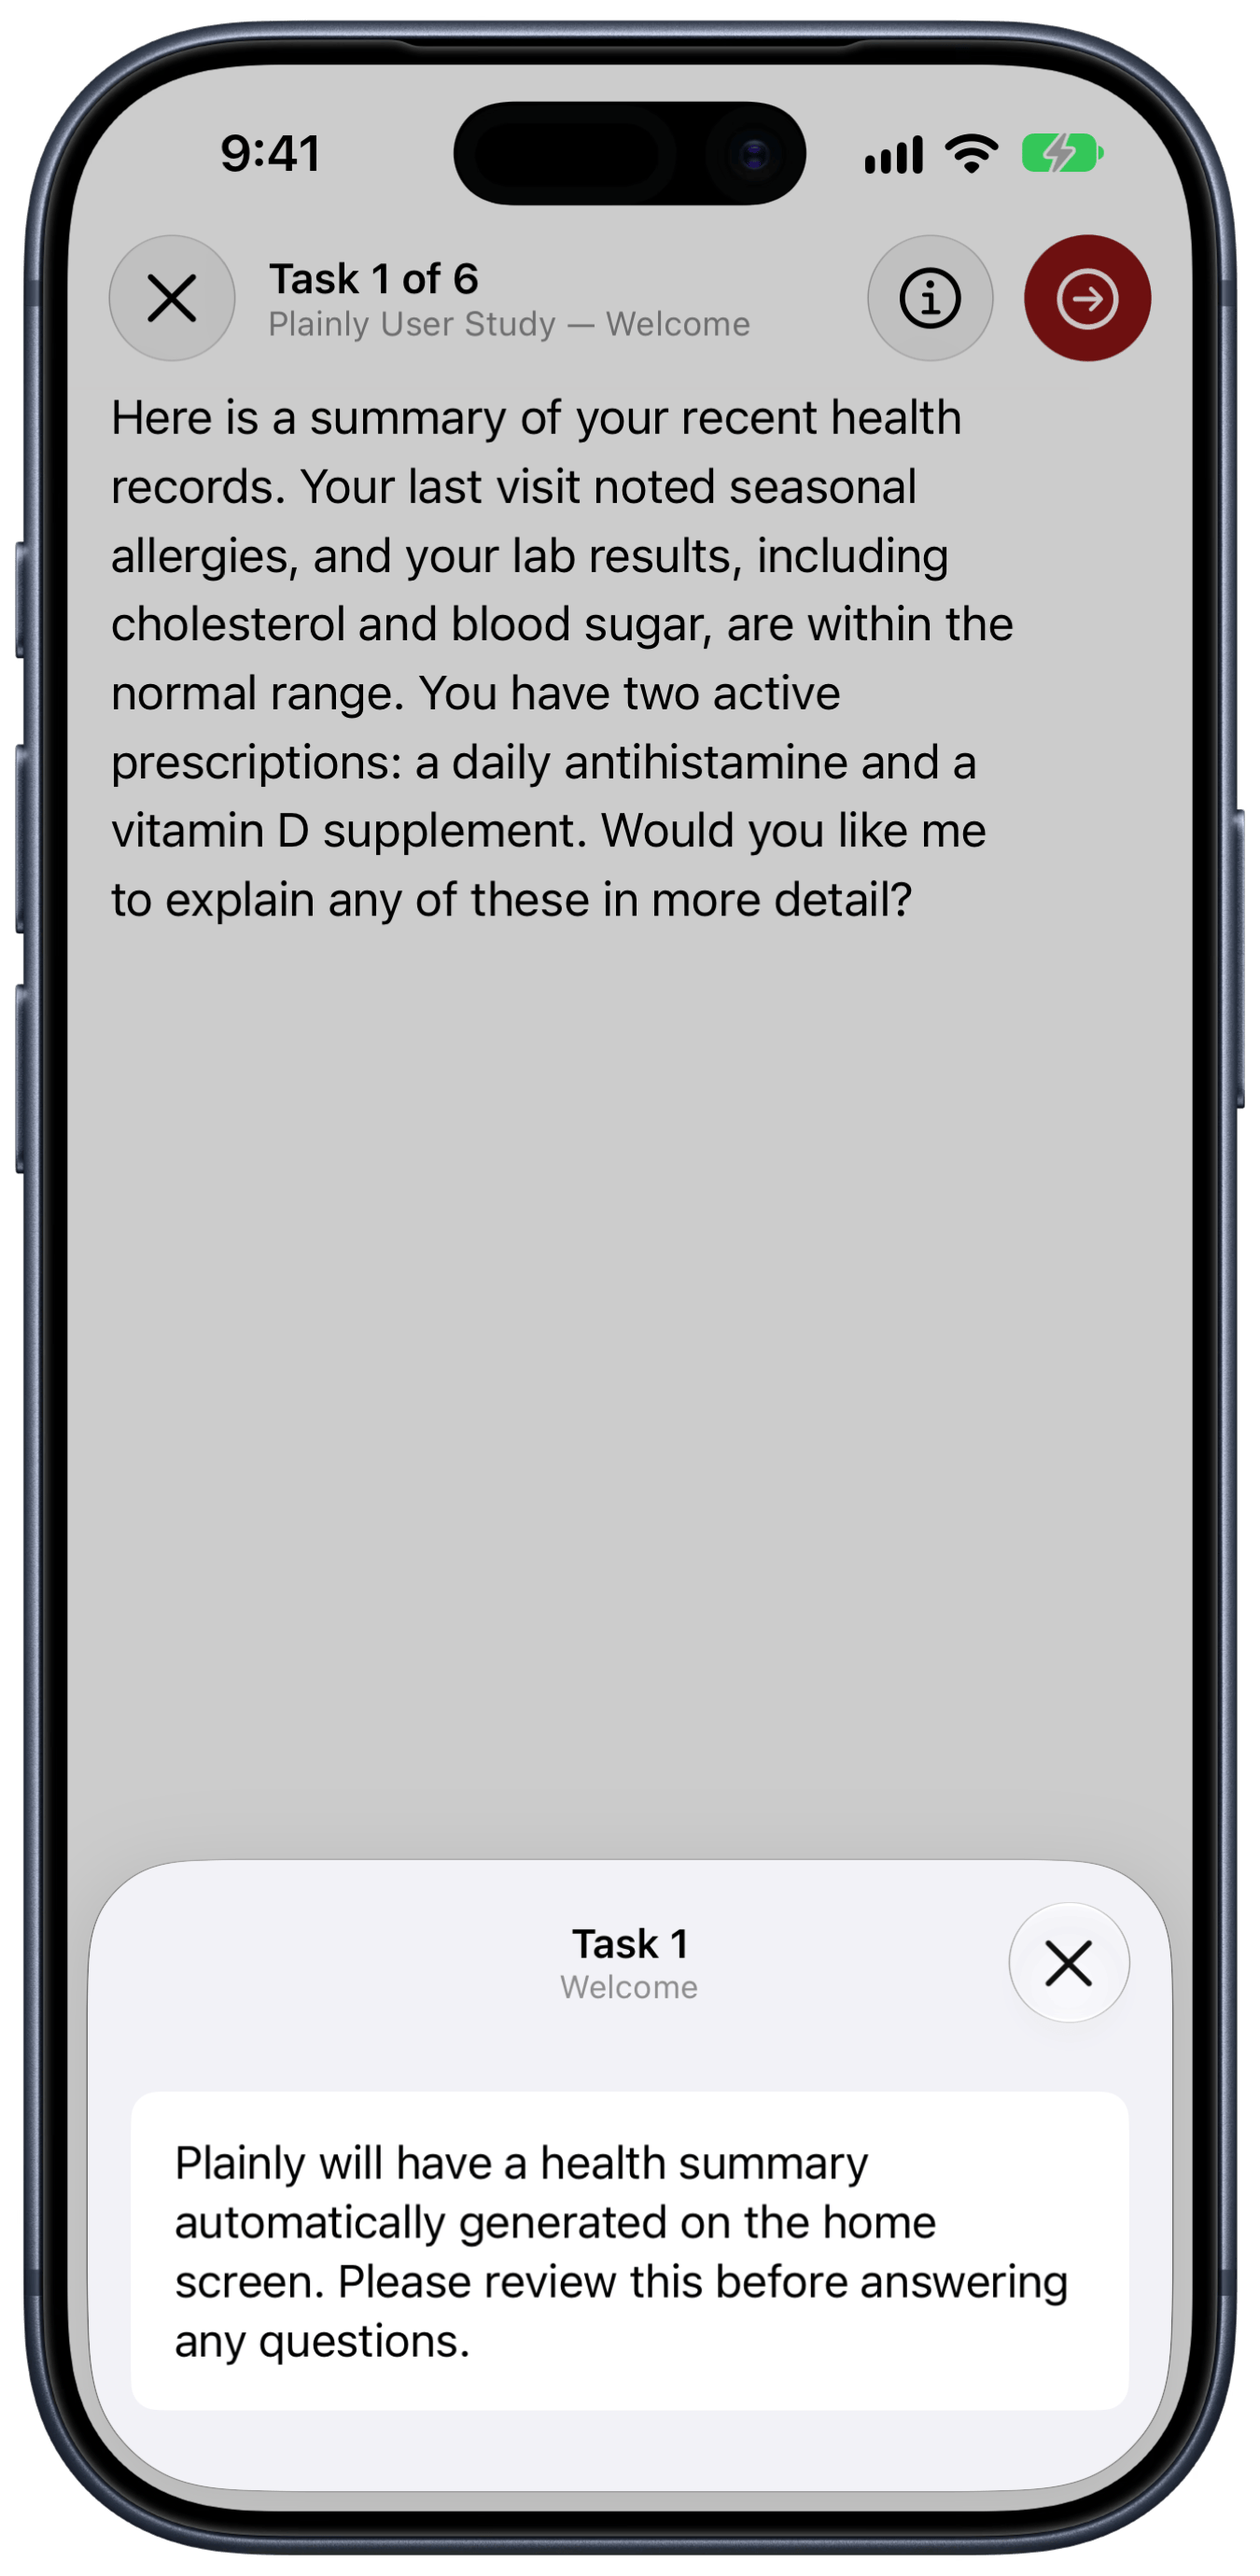
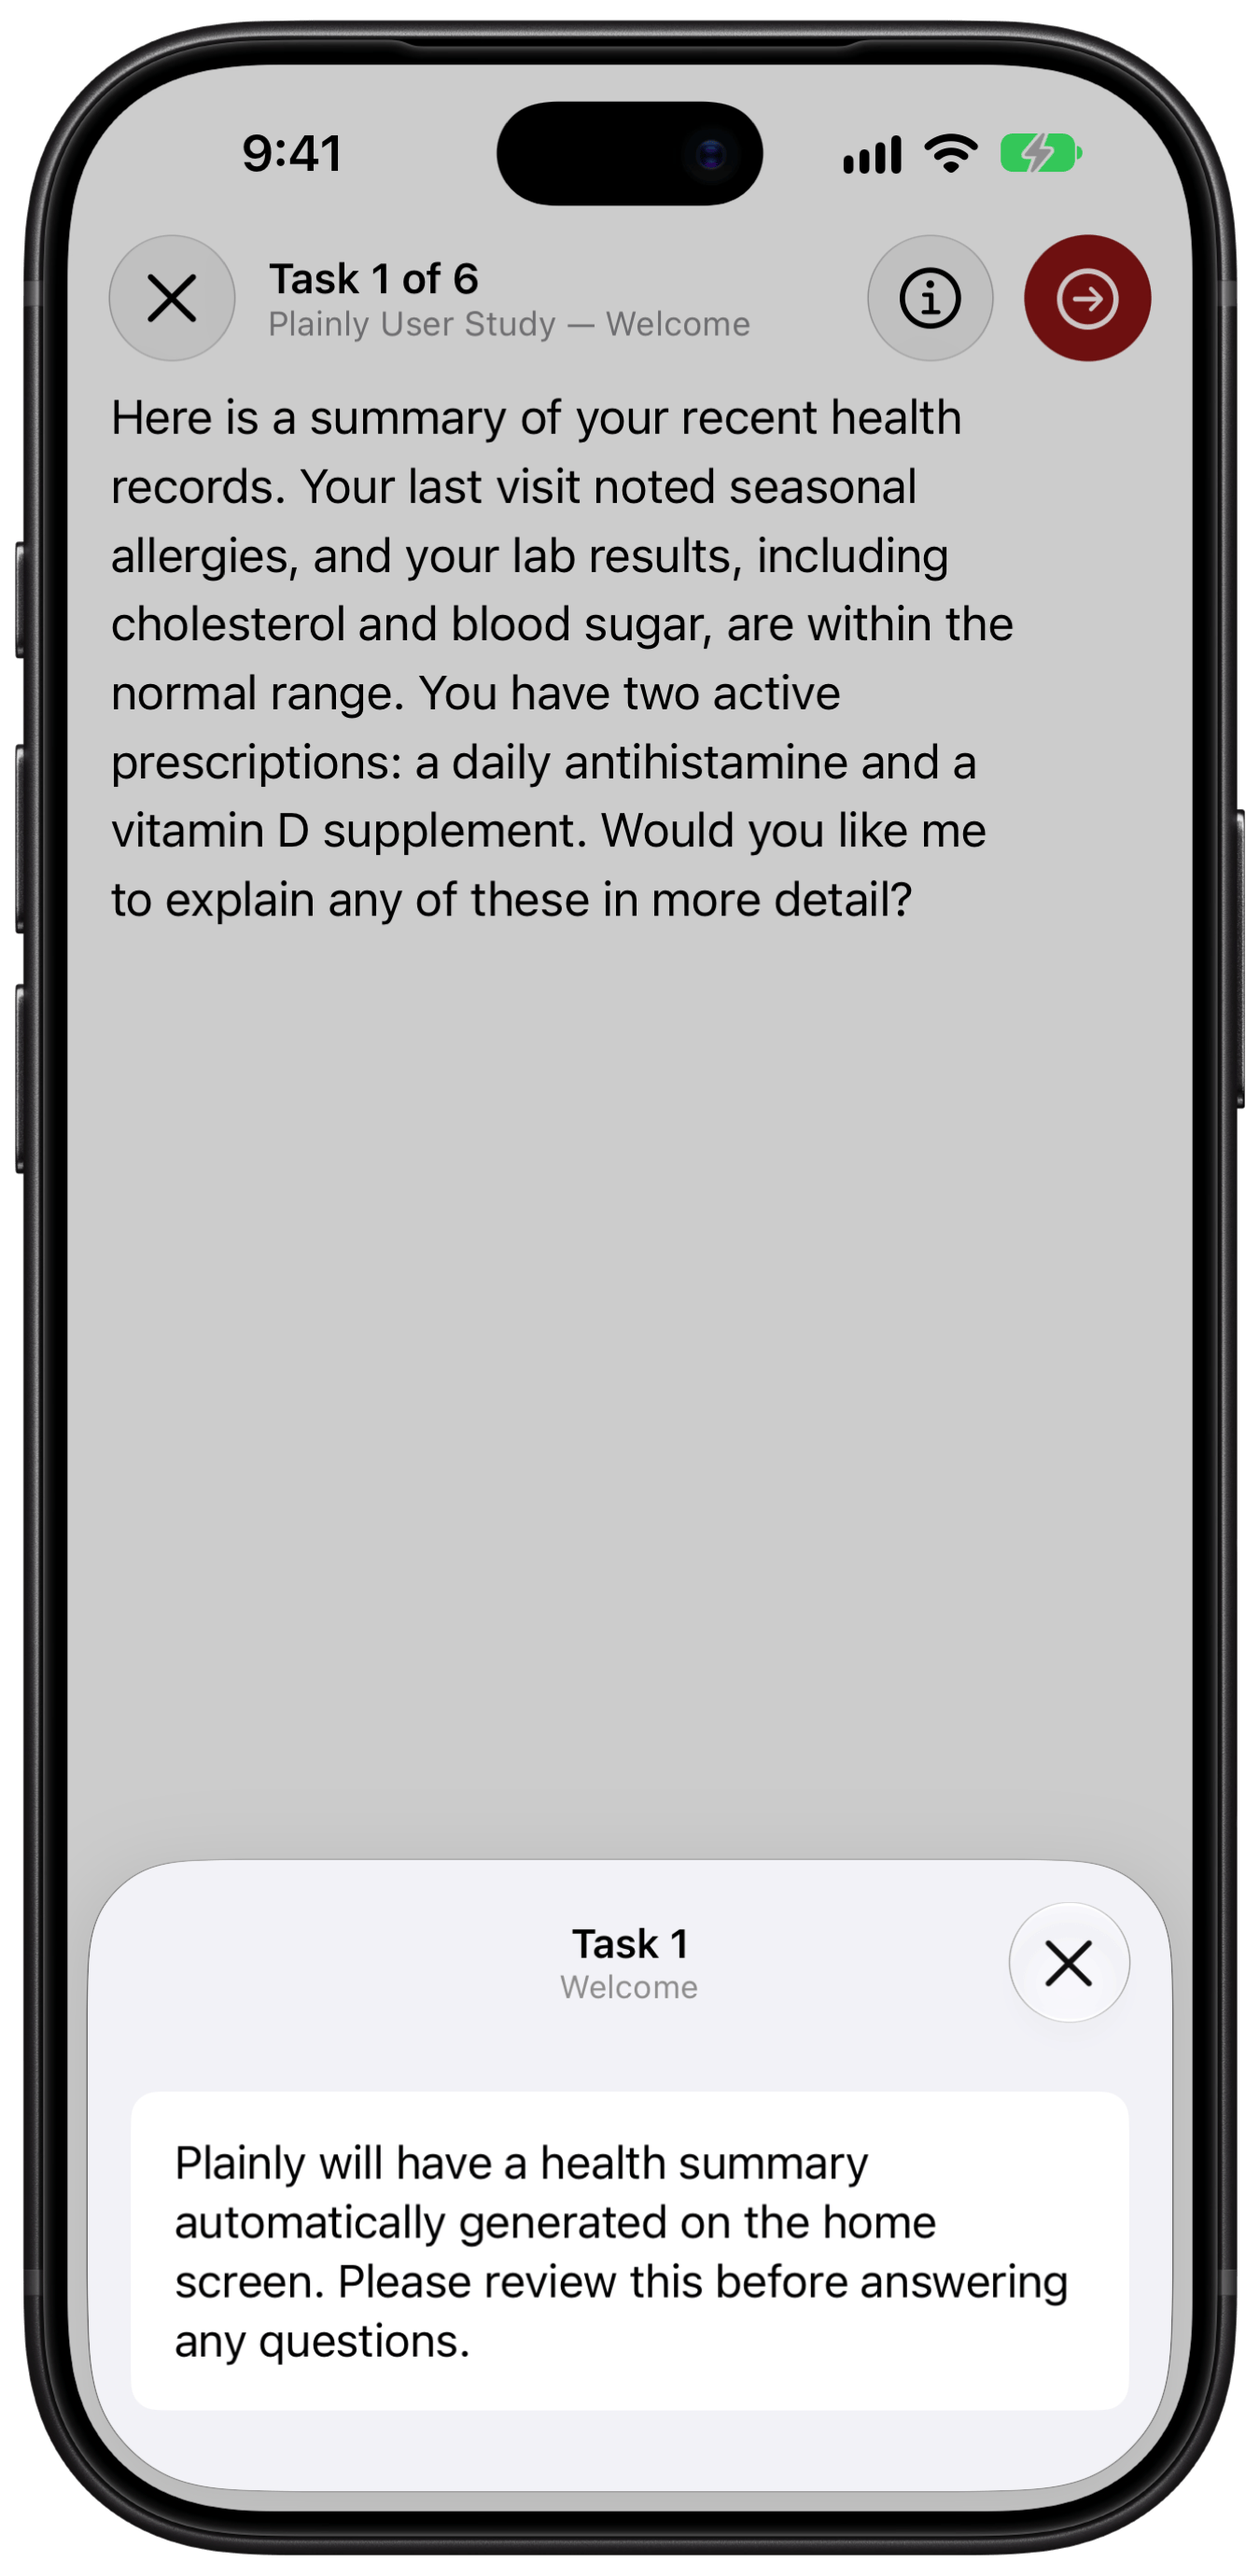
Run Tests and Screenshots on iPhone 18 Pro
The shared build workflows already test on an iPhone 18 Pro. Move the
Firebase end-to-end lane, the App Store screenshots, and the README
screenshots to the same generation, and regenerate both sets of
pictures. The README script now uses a fixed device, names its simulator
after it, and refuses a reused simulator of another type, so every
picture keeps one frame. The README walk waits for the opening summary
before taking the instructions picture, which otherwise showed the chat
still loading. PlainlyShared moves to Swift tools version 6.4, the
toolchain of the current Xcode.

Changed region(s): [[0.0933, 0.0, 0.9956, 0.9348], [0.0, 0.0312, 0.0933, 0.9659], [0.0933, 0.9348, 0.9644, 0.9971]]

diff --git a/PlainlyUITests/ScreenshotWalk.swift b/PlainlyUITests/ScreenshotWalk.swift
@@ -94,16 +94,17 @@ enum ScreenshotWalk {
         XCTAssertTrue(startSession.waitForExistence(timeout: 10))
         startSession.tap()
         XCTAssertTrue(app.staticTexts["Welcome"].waitForExistence(timeout: 30))
+        // The summary loads behind the instructions, and the picture shows it there.
+        let summary = ProcessInfo.processInfo.environment["PLAINLY_MOCK_CHAT_RESPONSE"] ?? ""
+        XCTAssertFalse(summary.isEmpty, "PLAINLY_MOCK_CHAT_RESPONSE names the summary the emulator answers with.")
+        let response = app.descendants(matching: .any).matching(NSPredicate(format: "label == %@", summary)).firstMatch
+        XCTAssertTrue(response.waitForExistence(timeout: 30))
         snapshot("04_Instructions")
 
         // The chat's own close button sits above the sheet's; the sheet's is the lower one.
         let closeButtons = app.buttons.matching(identifier: "Close").allElementsBoundByIndex
         let sheetClose = try XCTUnwrap(closeButtons.max { $0.frame.minY < $1.frame.minY })
         sheetClose.tap()
-        let summary = ProcessInfo.processInfo.environment["PLAINLY_MOCK_CHAT_RESPONSE"] ?? ""
-        XCTAssertFalse(summary.isEmpty, "PLAINLY_MOCK_CHAT_RESPONSE names the summary the emulator answers with.")
-        let response = app.descendants(matching: .any).matching(NSPredicate(format: "label == %@", summary)).firstMatch
-        XCTAssertTrue(response.waitForExistence(timeout: 30))
         let messageField = app.textFields["Message Input Textfield"]
         XCTAssertTrue(messageField.waitForExistence(timeout: 5))
         try messageField.enter(value: "What does my most recent diagnosis mean for me?", options: [.disableKeyboardDismiss])

diff --git a/PlainlyShared/Package.swift b/PlainlyShared/Package.swift
@@ -1,4 +1,4 @@
-// swift-tools-version: 6.2
+// swift-tools-version: 6.4
 //
 // This source file is part of the Plainly iOS open-source project
 //
